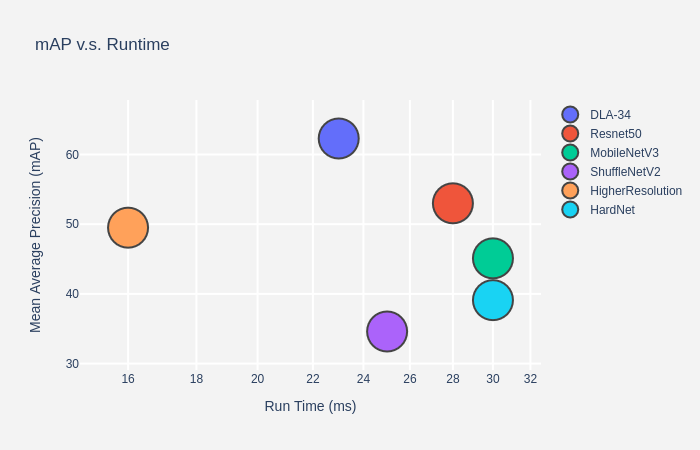
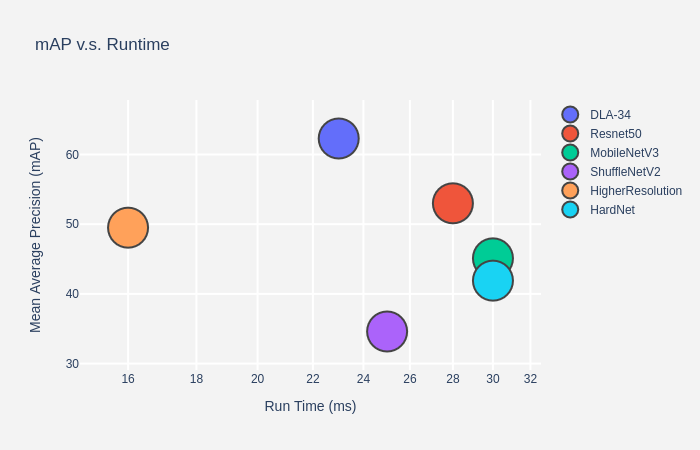
update hardnet result

Changed region(s): [[0.66, 0.56, 0.75, 0.7156]]

diff --git a/readme/plot_speed_accuracy.py b/readme/plot_speed_accuracy.py
@@ -14,7 +14,7 @@ continent_data['Resnet50'] = {'map':[53.0], 'speed':[28]}
 continent_data['MobileNetV3'] = {'map':[45.1], 'speed':[30]}
 continent_data['ShuffleNetV2'] = {'map':[34.6], 'speed':[25]}
 continent_data['HigherResolution'] = {'map':[49.5], 'speed':[16]}
-continent_data['HardNet'] = {'map':[39.1], 'speed':[30]}
+continent_data['HardNet'] = {'map':[41.9], 'speed':[30]}
 
 
 # Create figure
